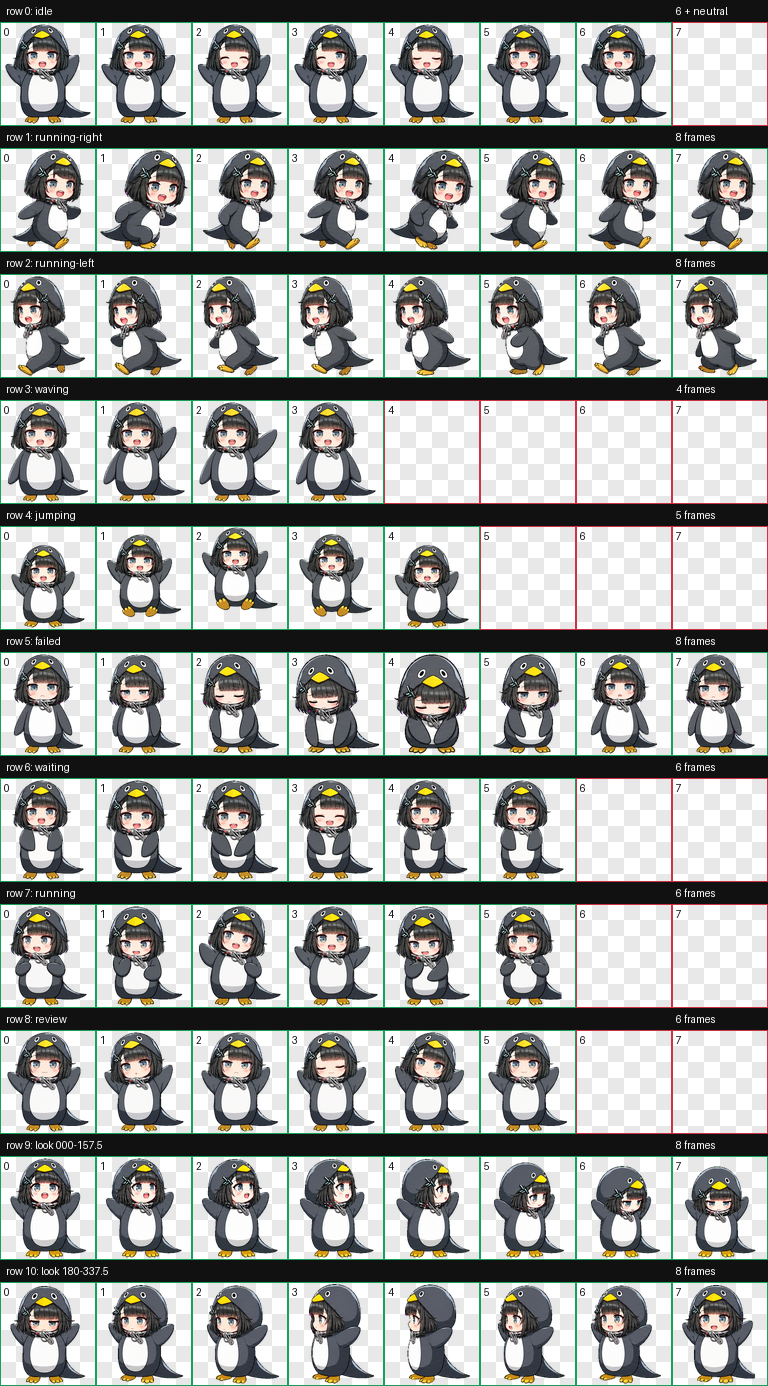
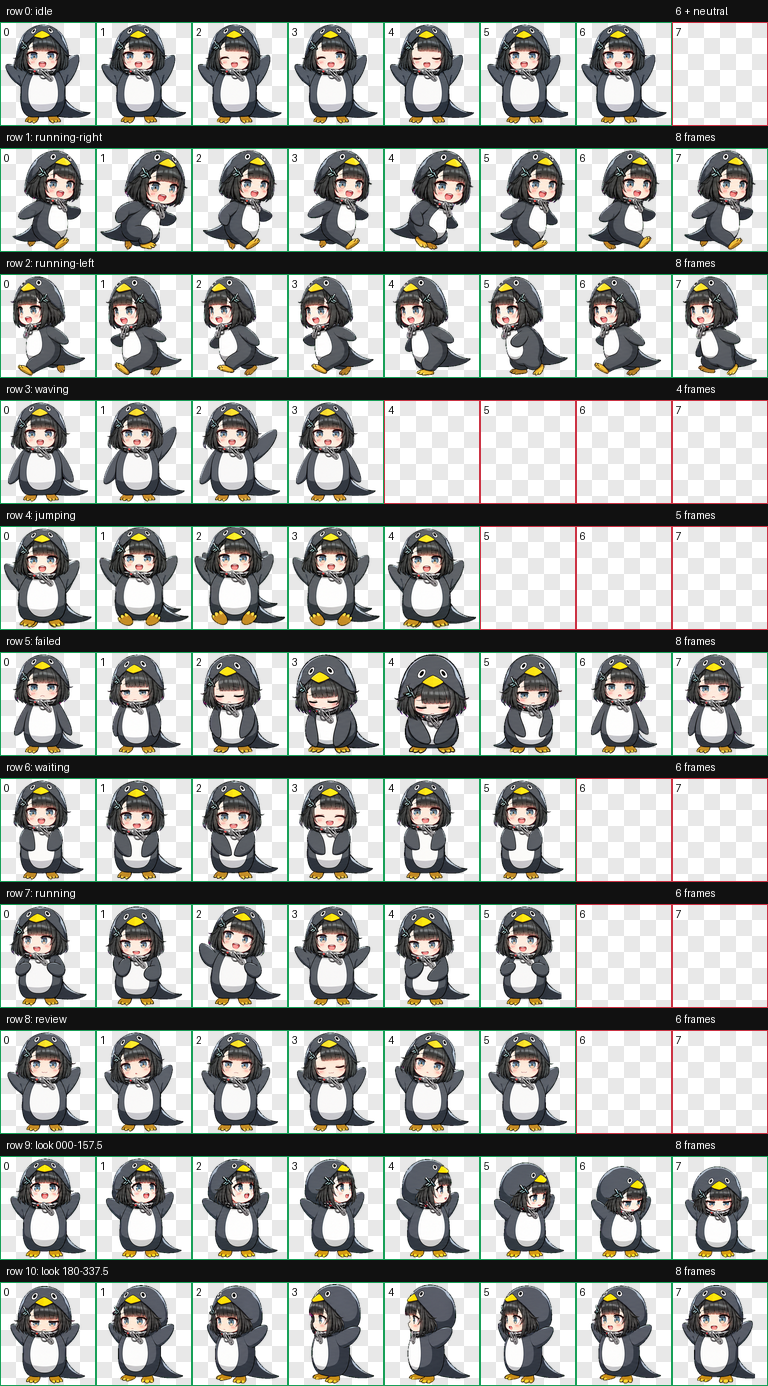
Fix hover jump scale

Changed region(s): [[0.0, 0.3723, 0.625, 0.4654]]

diff --git a/README.md b/README.md
@@ -31,3 +31,7 @@ cd gugugaga-codex-pet
 `install.sh` 和本项目原创配置、文档按 MIT 许可提供。角色名称、角色设计、图片、动画图集及其他第三方或衍生美术素材**不在 MIT 许可范围内**，本仓库也不声称有权授予这些素材的商业使用、再许可或周边制作权。
 
 本项目公开的是可审阅的源文件和安装方式；由于美术权利不明确，它不是一套权利完全清晰的开源美术资产。
+
+## 更新记录
+
+- `2026-07-12`：统一悬停跳跃动作与待机动作的角色尺寸，移除切换到跳跃动画时的缩小感。